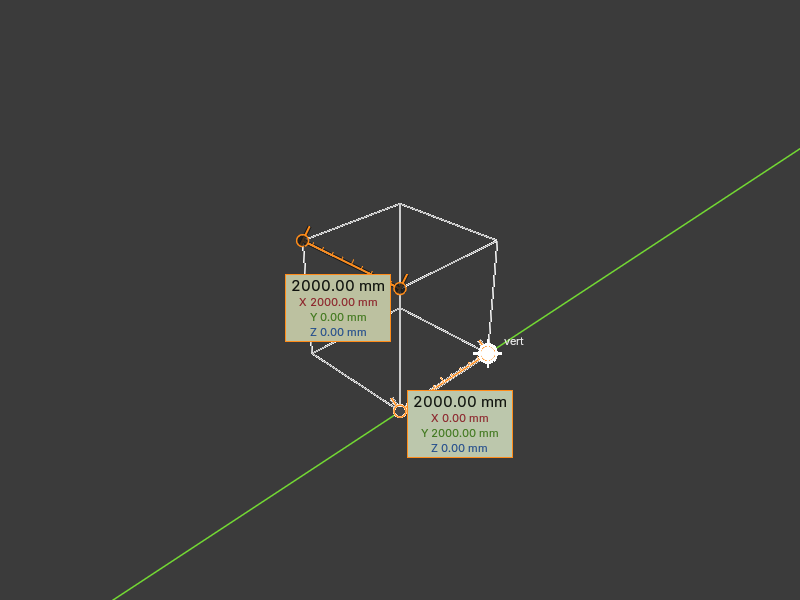
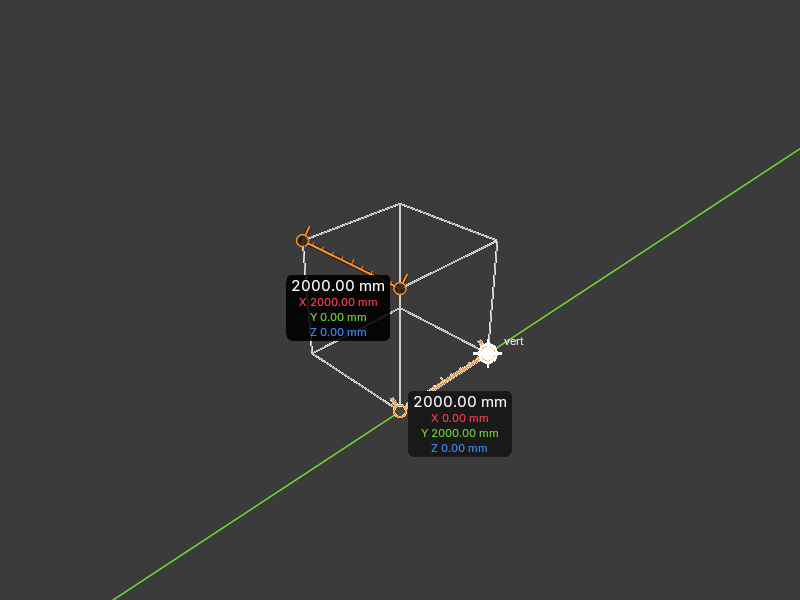
Caliper: rounded black readout with white text
Claude-Session: https://claude.ai/code/session_01PCYbCqRyF13c2S3YrfNdQf

Changed region(s): [[0.5, 0.63, 0.6562, 0.78], [0.3438, 0.45, 0.5, 0.57]]

diff --git a/blender_caliper/caliper_measure/draw.py b/blender_caliper/caliper_measure/draw.py
@@ -18,8 +18,8 @@ state = {
 }
 
 AXIS_COLORS = {'X': (1.0, 0.25, 0.3, 1.0), 'Y': (0.45, 0.85, 0.2, 1.0), 'Z': (0.25, 0.55, 1.0, 1.0)}
-LCD_BG = (0.72, 0.77, 0.66, 0.95)
-LCD_FG = (0.06, 0.07, 0.05, 1.0)
+LCD_BG = (0.0, 0.0, 0.0, 0.9)
+LCD_FG = (1.0, 1.0, 1.0, 1.0)
 OUTLINE = (0.0, 0.0, 0.0, 0.6)
 
 HANDLE_RADIUS = 6.0
@@ -60,6 +60,21 @@ def _tris(coords, color):
 
 def _rect(x0, y0, x1, y1, color):
     _tris([(x0, y0), (x1, y0), (x1, y1), (x0, y0), (x1, y1), (x0, y1)], color)
+
+
+def _rounded_rect(x0, y0, x1, y1, r, color, seg=6):
+    r = max(0.0, min(r, (x1 - x0) / 2, (y1 - y0) / 2))
+    pts = []
+    for cx, cy, a0 in ((x1 - r, y1 - r, 0.0), (x0 + r, y1 - r, 90.0),
+                       (x0 + r, y0 + r, 180.0), (x1 - r, y0 + r, 270.0)):
+        for i in range(seg + 1):
+            a = math.radians(a0 + 90.0 * i / seg)
+            pts.append((cx + r * math.cos(a), cy + r * math.sin(a)))
+    c = ((x0 + x1) / 2, (y0 + y1) / 2)
+    tris = []
+    for i in range(len(pts)):
+        tris += [c, pts[i], pts[(i + 1) % len(pts)]]
+    _tris(tris, color)
 
 
 def _circle_pts(c, r, seg=20):
@@ -173,14 +188,13 @@ def draw_measure(context, region, rv3d, idx, m, settings, viewport):
     box_h = th + extra_h + 2 * pad
     x0, y1 = mid.x - box_w / 2, mid.y + th + pad
     y0 = y1 - box_h
-    _rect(x0 - 1, y0 - 1, x0 + box_w + 1, y1 + 1, col)
-    _rect(x0, y0, x0 + box_w, y1, LCD_BG)
+    _rounded_rect(x0, y0, x0 + box_w, y1, 6 * scale, LCD_BG)
     _text(mid.x, y1 - pad - th, text, size, LCD_FG)
     y = y1 - pad - th
     for ax, s in lines_extra:
         y -= line_adv
         c = AXIS_COLORS[ax]
-        _text(mid.x, y, "%s %s" % (ax, s), small, (c[0] * 0.55, c[1] * 0.55, c[2] * 0.55, 1.0))
+        _text(mid.x, y, "%s %s" % (ax, s), small, c)
 
 
 def draw_px(context=None, region=None, rv3d=None):
